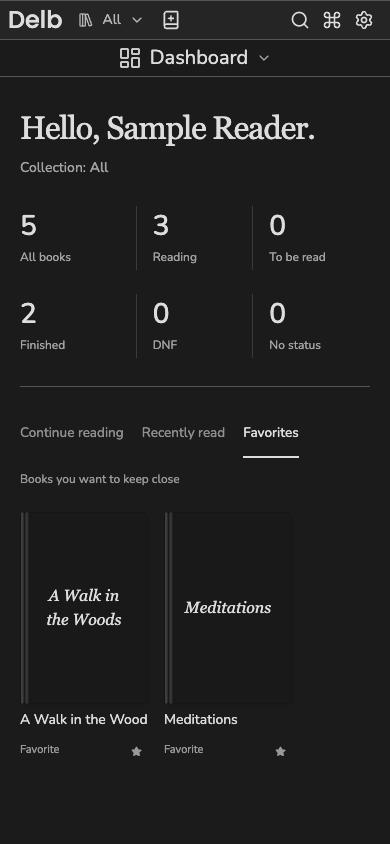
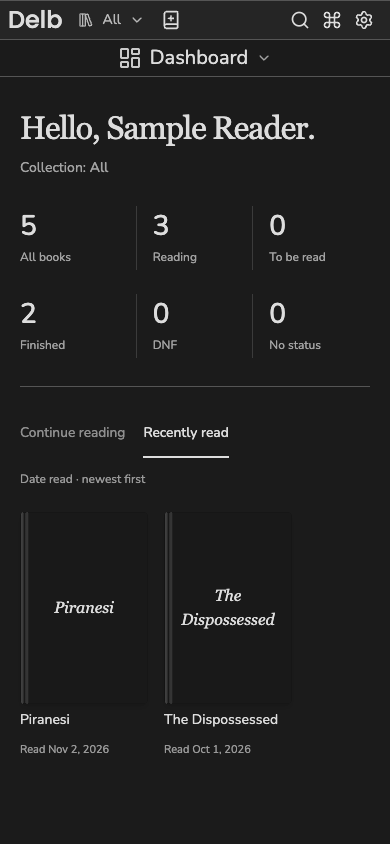
docs: update dashboard evidence for two reading shelves

diff --git a/docs/developing/documentation-status.md b/docs/developing/documentation-status.md
@@ -68,16 +68,16 @@ Local demo evidence does not prove live Google Books or Hardcover behavior, prod
 
 ## Dashboard shelves, 2026-11-04
 
-Issue [#35](https://github.com/lancewilhelm/delb/issues/35) implements the selected D dashboard. Runtime revision `1428880` includes the quiet count strip, three shelf tabs, and persistent per-user favorites. It also retains the reading-status menu merged in `654d776`.
+Issue [#35](https://github.com/lancewilhelm/delb/issues/35) implements the selected D dashboard with Continue reading and Recently read. Runtime revision `579c23d` retains the quiet count strip, two underline tabs, and the reading-status menu merged in `654d776`. Book favorites are deferred. This change has no schema migration.
 
-- `pnpm test` passed 247 tests. Focused SQLite and Vue checks cover scope, private favorites, preserved status and ratings, date-only serialization across server and browser timezones, stale responses, retry behavior, and cover-menu refresh.
+- `pnpm test` passed 244 tests. Focused SQLite and Vue checks cover collection scope, private reading history, paging, date-only serialization across server and browser timezones, stale responses, retry behavior, and cover-menu refresh. The query fixtures have no favorites or preference tables.
 - `pnpm typecheck` and `pnpm build` passed. `pnpm lint` passed with the existing optional-prop warning in `BookDescriptionEditor.vue`.
-- Production API checks cover authentication, invalid input, collection visibility, deduplication, finish-date order, idempotent favorites, per-reader isolation, preserved progress sync, and access revocation. The dashboard suite is included in `pnpm test:integration`.
-- A headless Chrome walkthrough exercised the built application with a separate browser profile and synthetic accounts. Shelf switching, keyboard tabs, read-date order, favorite changes from the dashboard and book details, reload persistence, stable counts, and a phone-width layout passed. The selected favorite uses a filled star.
+- Production API checks cover authentication, invalid input, collection visibility, deduplication, finish-date order, per-reader history, and access revocation. They also check that the removed favorites shelf and endpoint are unavailable. The dashboard suite is included in `pnpm test:integration`.
+- A headless Chrome walkthrough exercised the built application with a separate browser profile and synthetic accounts. Exactly two tabs, no favorite controls, shelf switching, keyboard wrapping, read-date order, reload persistence, stable counts, and a phone-width layout passed.
 - Desktop and phone screenshots were captured and inspected at 1280 by 900 and 390 by 844. [Screenshot provenance](../images/README.md) distinguishes these from the earlier documentation images.
-- The Standards review found a missing verification-record update. The Spec review found a timezone-dependent date display. This entry and the date-only response address both findings.
+- The earlier Standards finding about the verification record and the Spec finding about calendar dates remain addressed.
 
-This is local synthetic API and browser evidence. Physical touch, assistive technology, other browsers, live providers, Docker, and production upgrades were not exercised.
+This is local synthetic API and browser evidence. Physical touch, assistive technology, other browsers, live providers, and Docker were not exercised.
 
 ## Next documentation passes
 

diff --git a/docs/images/README.md b/docs/images/README.md
@@ -6,4 +6,4 @@ The browser viewport is 1280 by 800. The demo blocks outbound connections, so ex
 
 Capture replacements from the [synthetic setup](../developing/README.md#run-the-synthetic-demo). Keep screenshots alongside their guides and update the evidence record when the workflow changes.
 
-The dashboard screenshots were captured on 2026-11-04 from application revision `1428880` in a production build of the isolated demo. `dashboard.png` uses a 1280 by 900 viewport. `dashboard-mobile.png` uses a 390 by 844 viewport. The five book records and account are synthetic. The covers show Delb's fallback presentation for books without uploaded cover images.
+The dashboard screenshots were captured on 2026-11-04 from application revision `579c23d` in a production build of the isolated demo. `dashboard.png` uses a 1280 by 900 viewport. `dashboard-mobile.png` uses a 390 by 844 viewport. The five book records and account are synthetic. The covers show Delb's fallback presentation for books without uploaded cover images.
